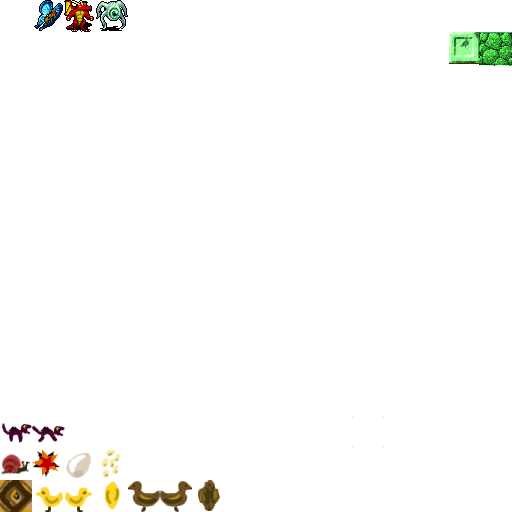
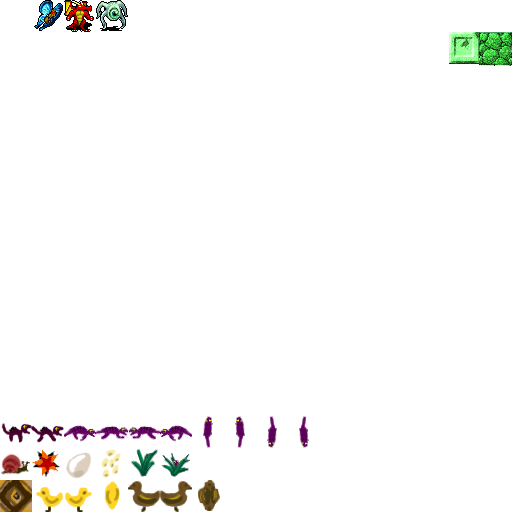
mongoose skin and grass tiles

Changed region(s): [[0.0625, 0.8125, 0.625, 0.9375]]

diff --git a/wild-mongoose-chase/src/wmc/mongoose.rs b/wild-mongoose-chase/src/wmc/mongoose.rs
@@ -35,16 +35,23 @@ impl Mongoose {
     }
 
     pub fn render(&mut self, ctx: &mut BTerm) {
+        let glyph_idx = match self.direction {
+            Direction::Left => 212,
+            Direction::Right => 210,
+            Direction::Up => 214,
+            Direction::Down => 216,
+            _ => 210,
+        };
         ctx.set_active_console(1);
         //ctx.cls();
         ctx.set_fancy(
             PointF::new(self.x as f32, self.y as f32),
             1,
             Degrees::new(0.0),
-            PointF::new(1.5, 1.5),
+            PointF::new(1.8, 1.8),
             WHITE,
             GREY,
-            self.glyph + self.frame, //.glyph, //self.glyph, //0 as u16, //self.symbol //DRAGON_FRAMES[self.frame]
+            glyph_idx + self.frame, //.glyph, //self.glyph, //0 as u16, //self.symbol //DRAGON_FRAMES[self.frame]
         );
         ctx.set_active_console(0);
     }
